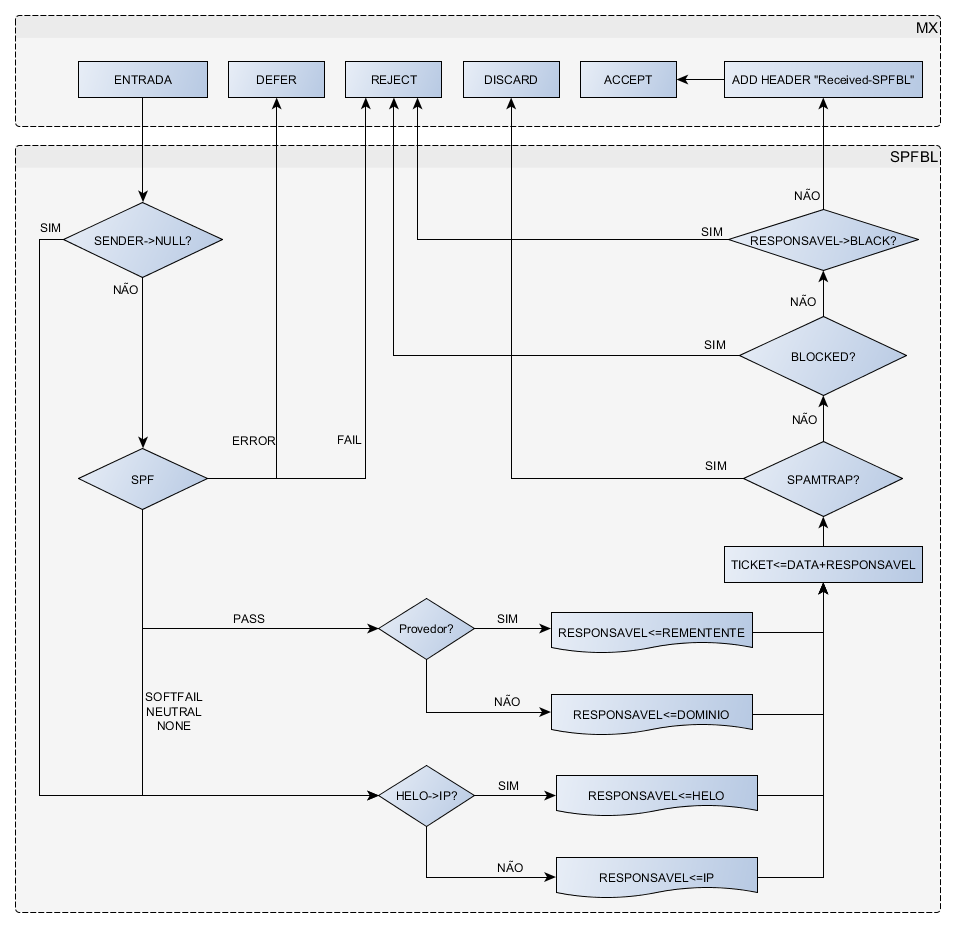
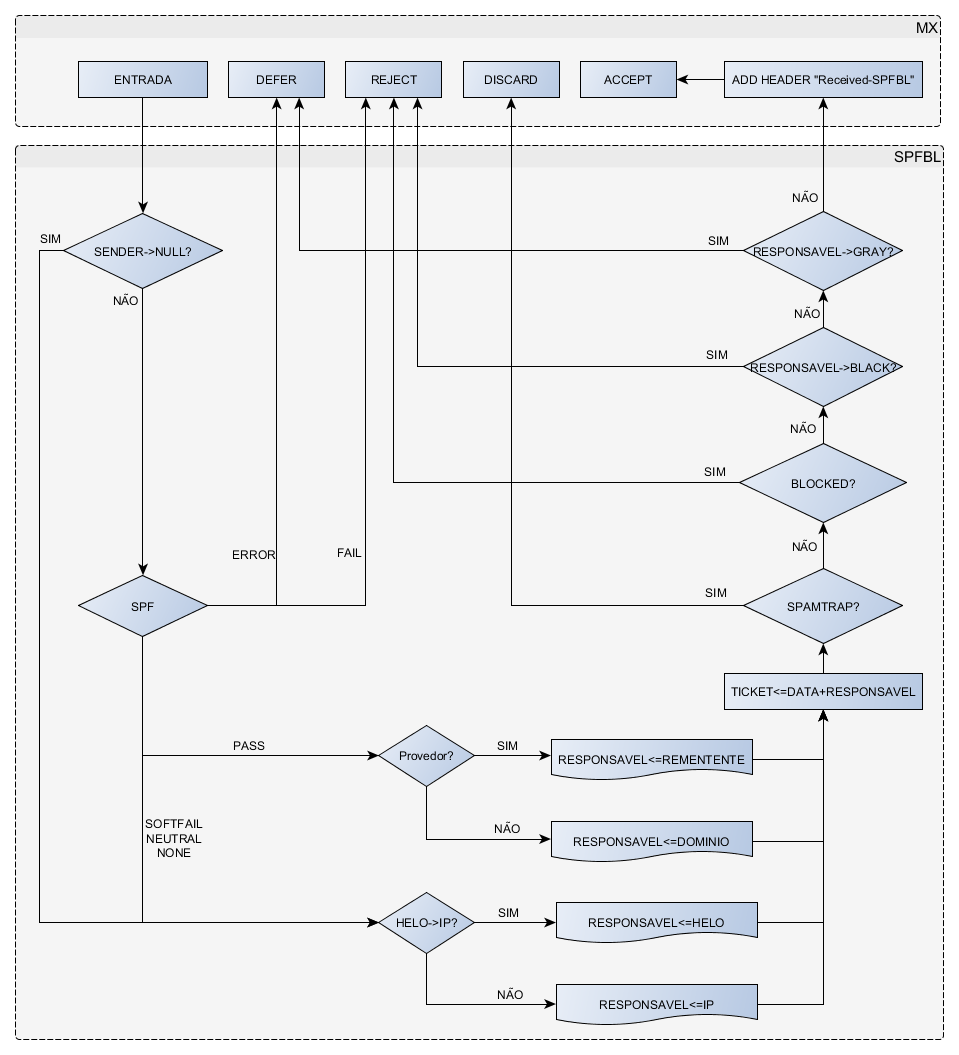
Atualização da documentação

diff --git a/README.md b/README.md
@@ -144,6 +144,10 @@ user:~# ./spfbl.sh trap drop <destinatário>
 OK
 ```
 
+##### Greylisting
+
+A mensagem será atrasada sempre que o responsável estiver com status GRAY e a probabilidade SPAM mínima dele for inferior à variável pseudo-aleatória.
+
 ### Funcionamento
 
 A seguir é mostrado como o SPFBL funciona internamente.
@@ -238,7 +242,11 @@ Para integrar o SPFBL no Exim, basta adicionar a seguinte linha na secção "acl
   discard
     log_message = [SPFBL] spamtrap.
     condition = ${if eq {$acl_c_spfreceived}{11}{true}{false}}
-   warn
+  defer
+    message = [RBL] you are greylisted on this server.
+    log_message = [SPFBL] greylisting.
+    condition = ${if eq {$acl_c_spfreceived}{12}{true}{false}}
+  warn
       condition = ${if def:acl_c_spfbl {true}{false}}
       add_header = Received-SPFBL: $acl_c_spfbl
 ```
@@ -274,6 +282,10 @@ Se a configuração do Exim for feita for cPanel, basta seguir na guia "Advanced
   discard
     log_message = [SPFBL] spamtrap.
     condition = ${if eq {$acl_c_spfreceived}{11}{true}{false}}
+  defer
+    message = [RBL] you are greylisted on this server.
+    log_message = [SPFBL] greylisting.
+    condition = ${if eq {$acl_c_spfreceived}{12}{true}{false}}
   warn
     condition = ${if def:acl_c_spfbl {true}{false}}
     add_header = Received-SPFBL: $acl_c_spfbl
